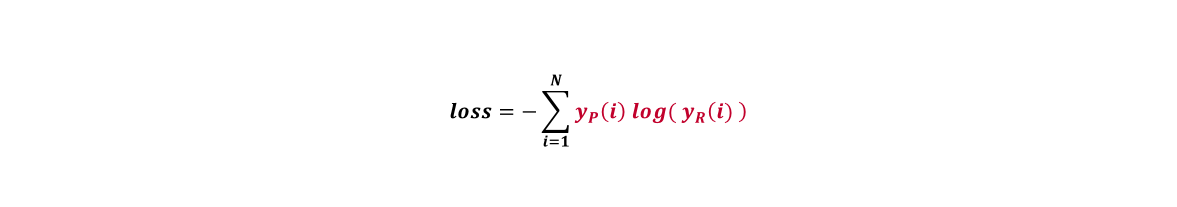
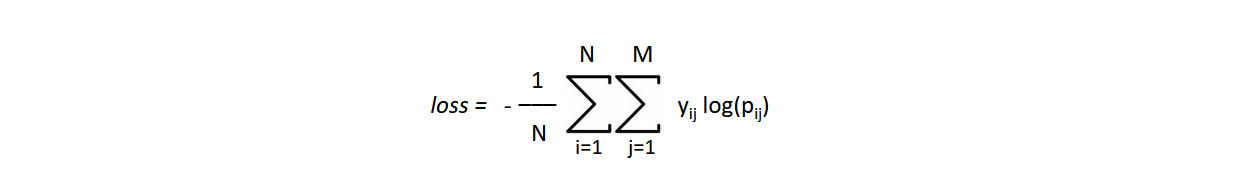
Improved readme by feedback of review.

Changed region(s): [[0.3364, 0.436, 0.6423, 0.814], [0.4588, 0.2616, 0.5506, 0.407], [0.4588, 0.814, 0.5506, 0.9012]]

diff --git a/README.md b/README.md
@@ -6,22 +6,32 @@ This project is covering __transfer learning__ for neural networks in the contex
 ## Table of Contents
 
 1. Project Structure  
-    1.1. Main Motivation  
-    1.2. Files and Folders  
+    1.1. Files and Folders  
     1.2. All Requirements
-2. Transfer Learning  
-    2.1. Application  
-    2.2. Parameters  
-    2.3. Metrices
+
+2. Short Introduction  
+    2.1. Main Motivation   
+    2.2. Deeper Insights   
+
+3. First naive Approach   
+    3.1. The Architecture  
+    3.2. Implementation
+
+4. Transfer Learning  
+    4.1. Application  
+    4.2. Parameters  
+
+5. Summary / Results  
+    5.1. Metric Evaluation  
+    5.2. Confusion Matrix
+
+5. Short Conclusion
 
 ---
 
 ## 1. Project Structure
 
-### 1.1. Main Motivation
-With the use of dog breed classification by neural networks the idea of convolutional networks and transfer learning are presented within this repository. Since there are a lot different dog breeds this is a challenging task with great insights of artificial intelligence applications.
-
-### 1.2. Files and Folders
+### 1.1. Files and Folders
 - `Files`:  
     The main method is provided in the classify.py python file.
 
@@ -32,11 +42,77 @@ With the use of dog breed classification by neural networks the idea of convolut
 Since the project uses `Keras` with `TensorFlow` as backend it is strongly recommended to use __Nvidia GPUs__. All of the provided neural networks are highly computationally intensive and would therefore run a long time on the CPU.
 
 >__Remark__  
-There is also a requirement.txt file provided in the repository with all the necessary packages.
+There is also a __requirement.txt__ file provided in the repository with all the necessary python packages.
 
-## 2. Transfer Learning
+## 2. Short Introduction
 
-### 2.1. Application
+### 2.1. Main Motivation
+With the use of dog breed classification by neural networks the idea of convolutional networks and transfer learning are presented within this repository. Since there are a lot different dog breeds this is a challenging task with great insights of artificial intelligence applications.
+
+### 2.2. Deeper Insights
+The data base contains about __XYZ__ dog images and their dog breeds - in total there are __133__ different dog breeds provided. The task for the neural network is to classify the dog breed receiving only a dog image. 
+
+>__Remark__  
+The provided data set in the [link](https://s3-us-west-1.amazonaws.com/udacity-aind/dog-project/dogImages.zip) is already splitted into a training, testing and validation set folder. 
+
+#### Distribution
+In order to receive a better understanding of the classification task, let's have a look on the data distribution. As you can see in the figure below there are some dog breeds with just a few images provided for them.
+
+#### Challanges 
+But not only the data distribution, the __classification task__ itself will be a hard challenge as well. If we have a closer look into the data set there a same breeds with different colors or even some breed mixes contained.
+
+<img src="images/golden_dog.png" width="200"> 
+<img src="images/chocolate_dog.png" width="200"> 
+<img src="images/black_dog.png" width="200">
+
+>__Remark__  
+In the three pictures above you can see a yellow, chocolate and black version of labrador for instance.
+
+## 3. First naive Approach
+
+### 3.1. The Architecture
+A state of the art approach for image classification is using convolutional neural networks. The architecture can be seen below and the idea behind all layers will be described in my [blog post](https://philipp-killermann.medium.com/transfer-learning-6537a705bdaf) in more details.
+
+![](images/cnn-architecture.png)
+
+### 3.2. Implementation
+``` python
+# creating a new model
+model = Sequential()
+
+# 1. convolution layer
+model.add(Conv2D(64, (2, 2), activation='relu'))
+model.add(MaxPooling2D((2, 2)))
+
+# 2. convolution layer
+model.add(Conv2D(32, (2, 2), activation='relu'))
+model.add(MaxPooling2D((2, 2)))
+
+# 3. convolution layer
+model.add(Conv2D(16, (2, 2), activation='relu'))
+model.add(MaxPooling2D((2, 2)))
+
+# global averaged pool
+model.add(GlobalAveragePooling2D())
+
+# 1. dense full layers
+model.add(Dense(512, activation='relu'))
+model.add(Dropout(0.250)) 
+
+# 2. dense full layers
+model.add(Dense(256, activation='relu'))
+model.add(Dropout(0.125)) 
+
+# classification nodes
+model.add(Dense(133, activation='softmax'))
+```
+
+>__Remark__  
+The max pooling and drop-out layers of the naive network are included for additional regularization.
+
+## 4. Transfer Learning
+
+### 4.1. Application
 
 The usage of the console application is quite simple by providing an image file path as the only argument.
 ```
@@ -49,7 +125,7 @@ Once the training phase is finished there is a trained network provided in the f
 >__Remark__  
 This can also be done for human images - so feel free to discover if you look like a specific dog breed.
 
-### 2.2. Parameters
+### 4.2. Parameters
 
 As described in more details on my [blog post](https://philipp-killermann.medium.com/transfer-learning-6537a705bdaf) the classification accuracy depends strongly on the ability of finding all characteristic features in an image. 
 
@@ -63,16 +139,46 @@ The last dense layer of the neural network contains of 133 nodes for the dog bre
 
 ![](./images/summary.png)
 
->__Remark__  
-As an additional regularization step there are also some dropout layers included to the network too.
+## 5. Summary / Results  
+### 5.1. Metric Evaluation  
+In the last section, let's have a look on the different kinds of __metrices__ used during the classification task as seen in the screenshow below and describe them shortly.
 
-### 2.3. Metrices
-In the last section, let's have a look on the __accuracy__ of the pre-trained  network. After a training phase of 10 epochs the neural network predicts __82.2%__ of the unknown validation set right.
+TODO
+
+#### Accuracy
+In general the _accuracy_ is defined as the proportion of the as true predicted results (sum of true positive and true negative) among the number of all predicted results.
+
+![](images/accuracy.png)
 
 >__Remark__  
-During the training the loss function is described by the categorical cross entropy, as seen below where y<sub>P</sub> is the predicted result, y<sub>R</sub> the reference and N the total number of predictions.
+Since the data set is not well balanced (as seen above) the __confusion matrix__ will give more details about the performance of each class in the predictions.
+
+#### Entropies
+The loss function is described by the _categorical cross entropy_, as seen below where _y_ is the predicted result, _p_ the corresponding propability and N the total number of predictions.
 
 ![](images/loss-function.png)
+
+>__Remark__  
+The _log_ loss term of the forumla above takes into account the uncertainty of a prediction based on how much it varies from the actual reference label value.
+
+After a training phase of 10 epochs the pre-trained network predicts __82.2%__ of the unknown validation set right, whereas the naive approach only predicts __XY.Z%__ correct.
+
+|                   | Accuracy      |
+| ----------------- |---------------|
+| Naive Approach    | XY.Z%         | 
+| Transfer Learning | 82.2%         | 
+
+### 5.2. Confusion Matrix
+
+## 6. Short Conclusion
+The transfer learning technique surpasses the naive approach by far! This is a great and easy way to improve the accuracy of the dog breed image classification neural network.
+
+Although the accuracy of this network is already quite high, one issue is still the performance of some classes due to the inbalanced data set as seen in the sections above.
+
+>__Remark__  
+This can only be tackled by a more __balanced__ training set or further techniques like _class weighting_.
+
+Nevertheless - as a short outlook - the last part of the pre-trained network can still be improved by different kinds of __architectures__ or a __hyper parameter__ search for better configurations.
 
 # Acknowledgement
 I would like to thank Udacity for providing such a great idea and content for this data science project.
